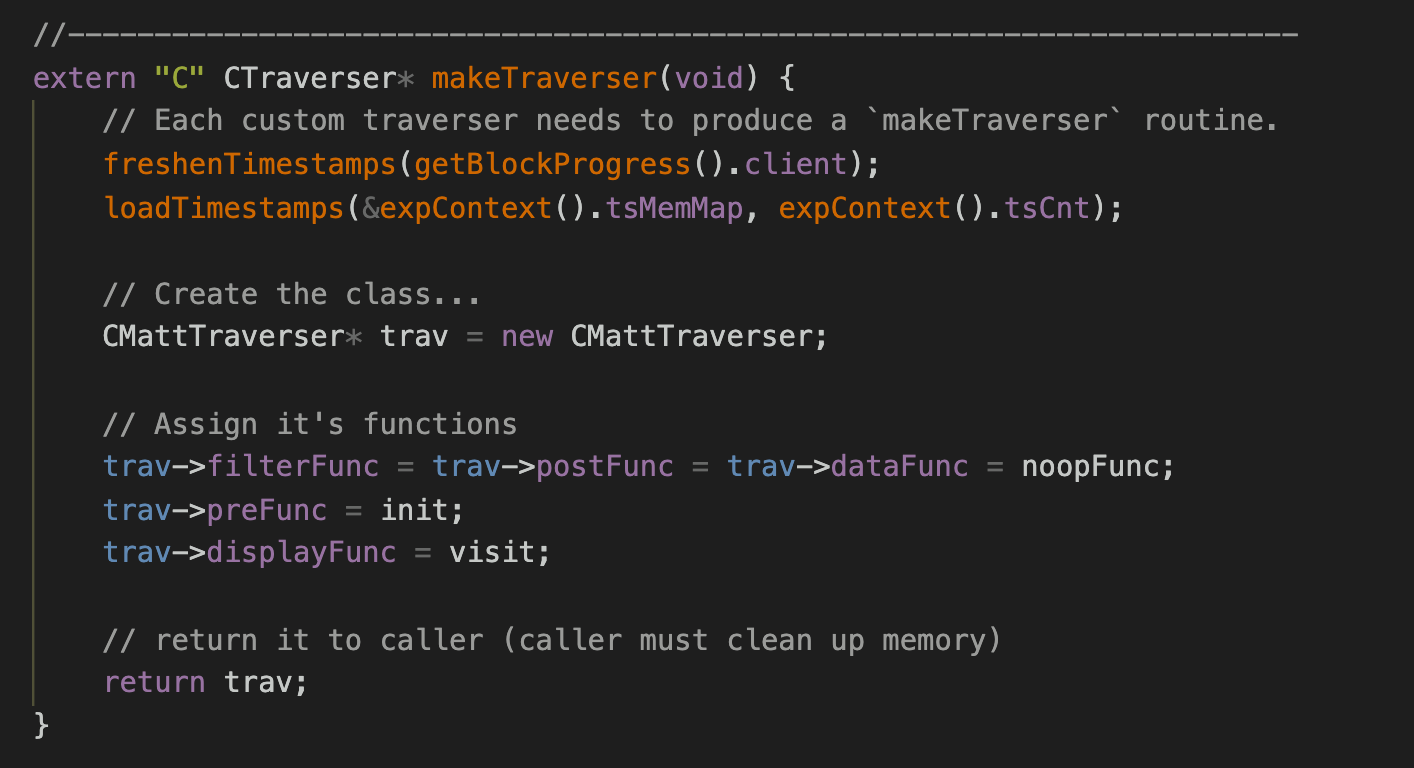
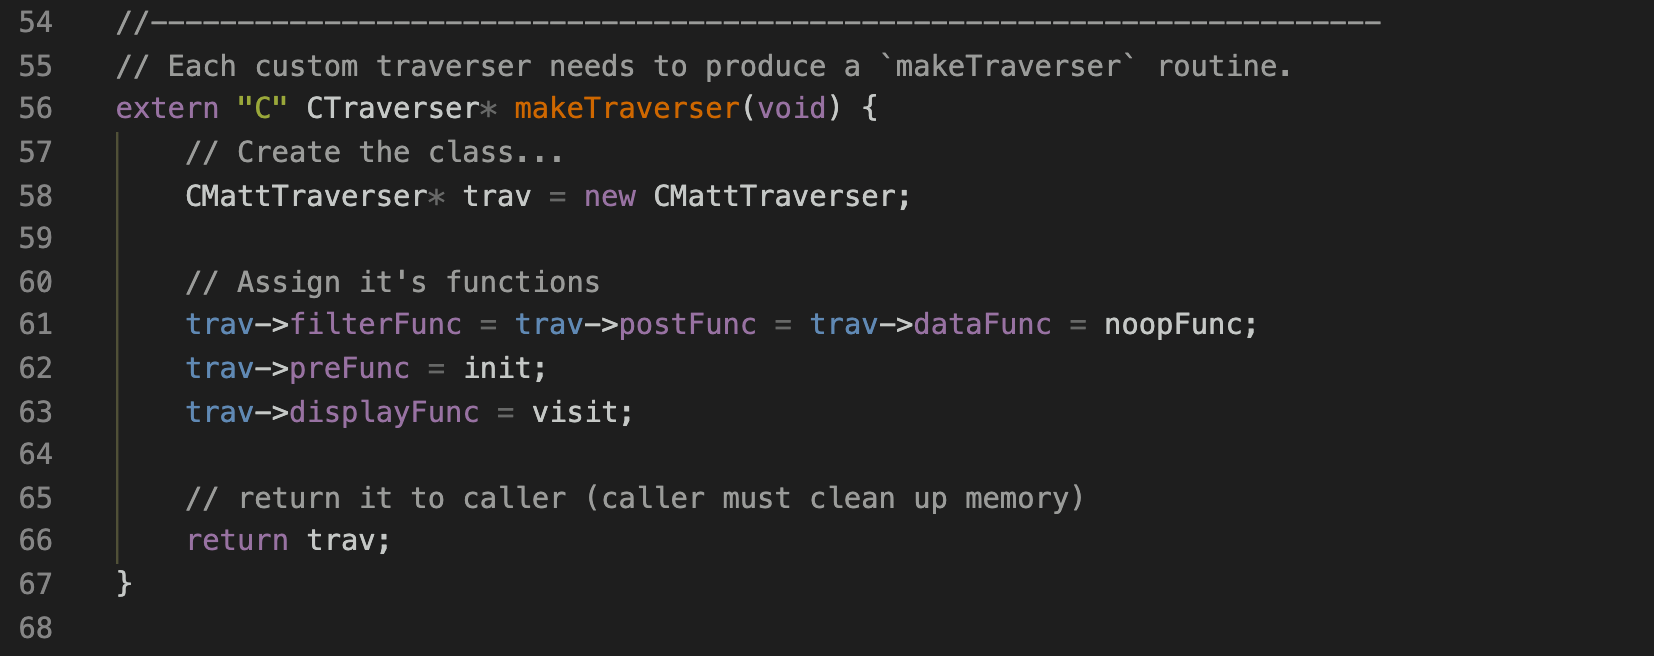
Revision of README

diff --git a/README.md b/README.md
@@ -34,48 +34,56 @@ The first routine we need is called `makeTraverser`. Every custom TrueBlocks tra
 
 ![makeTraverser](./images/makeTraverser.png)
 
-This routine creates a new traverser, attaches a few functions to the hooks on the traverser class and returns the result to its caller.
+This routine creates a new traverser at line 58. At lines 51-63, we're attaching functions to the traverser's hooks. Line 66 returns the result to its caller.
 
-Traversers have six hooks onto which you may attach your own code. We show that code below. Prior to displaying any of the address's transactions, the traverser will call its own `preFunc`. We've attach a function called `init` to the `preFunc`, which we show here:
+The Traverser class has six hooks onto which you may attach your own functions. We show examples of two of those functions below.
+
+The first, `preFunc` is called prior to displaying any of the address's transactions. At line 62 above, we've attached a function called `init`, which we show here:
 
 ![init](./images/init.png)
 
-This is a very simple routine that simple displays the header for the data that is about to be generated. You might generate headers for a comma-separated value file for example. Here we generated a tab-separated header. If we were generating JSON, we would skip this function.
+This very simple routine writes the header for the data to the standard out (cout). Here, we're generating a header for a tab-separated export, but you could generate headers for a comma-separated value file if you wished. If we were generating JSON, we would skip this function. If you were writing to a file, you'd open the file here. If you were writing to a database, you'd establish the connection here.
 
-The next routine we need is attached to the traverer's `displayFunc`. Here, we've called that function `visit` which we present next. The `displayFunc` is called once for every transaction that the given address appears in (that is, the list of transactions generated above).
+The next routine we attach, at line 63 above, is to the traverer's `displayFunc`. We've called that function `visit` which we present next. The traverser's `displayFunc` is called once for each appearance for the address (i.e., the list of transactions generated above).
 
 ![visit](./images/visit.png)
 
-In this routine, we first make a call into the smart contract's `exchangeRateStored` function (which has a four-byte of `0x182df0f5`). We load the ABI for the address (which we could have loaded in the `init` function) so that the function `getResults` knows how to decode the result.
+In the `visit` routine, we first make a call into the smart contract's `exchangeRateStored` function (which has a four-byte encoding of `0x182df0f5`). At line 43, we load the ABI for the address. We need the ABI, so that the function `getResults` knows how to decode call's result.
 
-After completing the call into the smart contract, we display the blockNumber, transactionIndex, date and result returned from the call into the contract.
+After completing the call into the smart contract, we display the blockNumber, transactionIndex, date and the result returned from the call into the contract.
 
-One returns `'true'` from the hook routines to continue the traversal. At any point, you can return `'false'` to stop the traversal.
+For all hooks, if the function returns `'true'` fthe traverse continues. If, on the other hand, the function returns `'false'`, the traversal will stop.
 
-That's it. That the entire code for extracting a particular value from a smart contract at every place it ever appeared on the blockchain. I'm sure you'll appreciate just how complicate this can become and yet how simple it is to build your own customized traverser with TrueBlocks.
+The final peice of code is where we create a derived class from the base CTraverser class. In this example, we don't really need to customize this, but if you were writing to a file or a database, for example, this is where you would store the connection or FILE pointer. You could also use this class for keeping accumulators such as `totalGasSpent` or a balance history map.
+
+![constructor](./images/class.png)
+
+That's it. That's the entire code for extracting a value from any smart contract at every one of its appearances on the chain.
 
 Fin.
 
 ## Building and Running Your Custom Traverser
 
-To build the custom traverser, go to the command line in the present folder and run this command:
+To build the custom traverser, first write its code as above. Then, go to the command line in the present folder and run this command:
 
 ```[shell]
-make
+make linux
 ```
 
-(Run `make -f make.mac` on a Mac.)
+(Run `make mac` on a Mac.)
 
 This will produce a file called `libmatt.so` (`libmatt.dylib` on mac) and copy it to the TrueBlocks cache.
 
-To run the exporter with your custom traverser do this command:
+To run the exporter with your custom traverser, run this command:
 
 ```[shell]
 chifra export --load libmatt.so <address>
 ```
 
-This will produce a [file similar to this](./results.txt). Be careful though. There are more than 800,000 records, so make sure you have enough hard drive space.
+The above command will print the results to the terminal. (We've captured the first few lines in [this file](./results.txt). Be careful though.
+
+The `chifra export <address>` call is how people would normally interact with TrueBlocks. `chifra export` provides various built-in ways of exporting data (such as `--logs`, `--accounting`, `--factory`, etc.) but sometimes you need the ability to extract very specific details (or a combination of very specific details) for a given address. Custom Traversers gives you the ability to do that in a simple, very self-contained way.
 
 ## Conclusion
 
-TrueBlocks provides a routine called `chifra export <address>`. Normally, the tool provides various ways of exporting data such as `--logs`, `--accounting`, `--factory`, etc. but sometimes you need the ability to extract very specific (or very detailed) data for a given address. Custom Traversers gives you the ability to do that in a very simple, very self contained way.
+I hope you can appreciate the potential here. The constructor of the derived class and each hook can become as complicated as you wish, but at the same time, it's as simple as these 100 lines of code.
